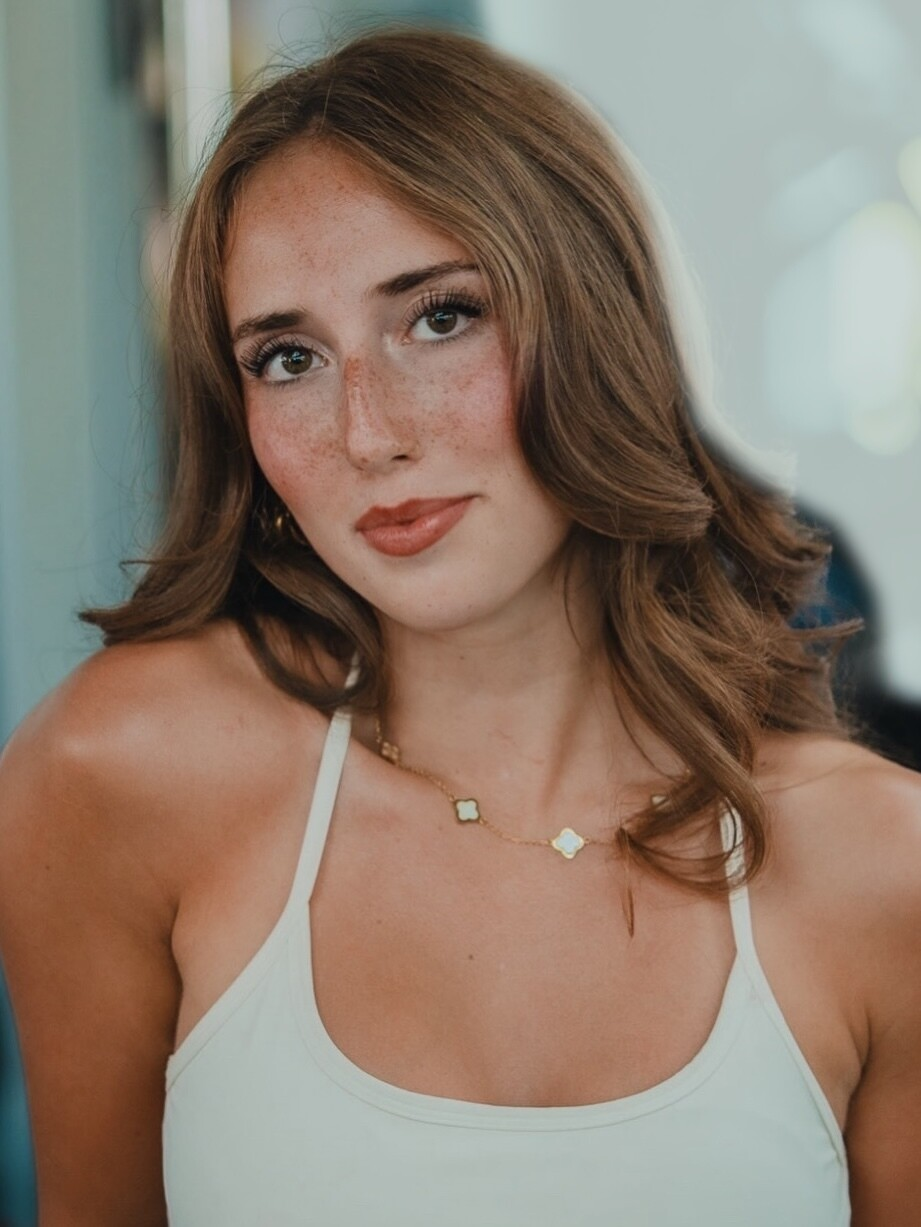
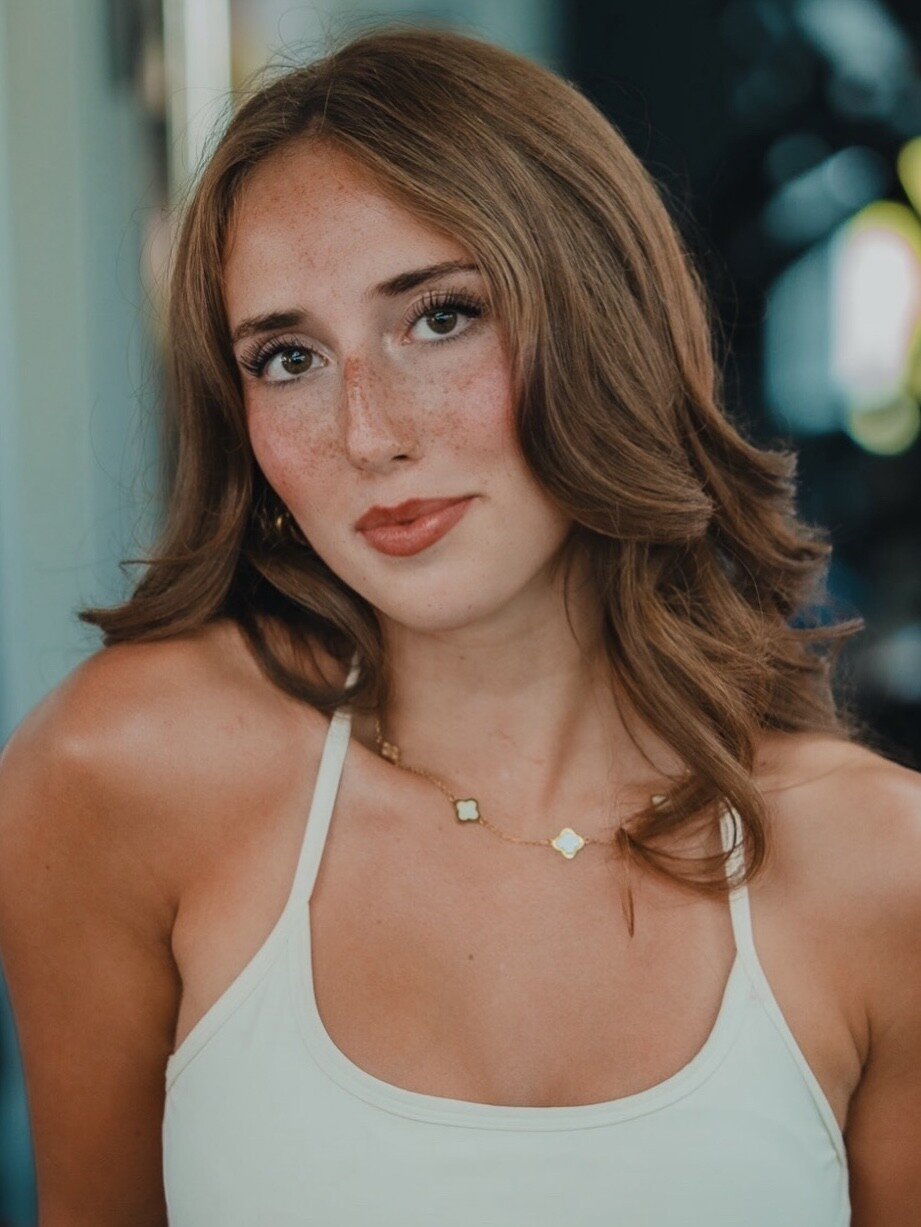
Revert hero edit, smaller eyebrows, bigger headings, review carousel, punctuation in headings

Changed region(s): [[0.5168, 0.0, 1.0, 0.5884]]

diff --git a/ugc-portfolio/index.html b/ugc-portfolio/index.html
@@ -55,12 +55,12 @@ a { color: inherit; }
 .wrap { max-width: 1160px; margin-inline: auto; }
 section { padding-block: 80px; }
 h1, h2, h3 { font-family: var(--font-display); font-weight: var(--hw); letter-spacing: -.015em; line-height: 1.02; margin: 0; text-wrap: balance; }
-h2 { font-size: clamp(2.1rem, 5vw, 3.4rem); }
+h2 { font-size: clamp(2.4rem, 5.4vw, 3.8rem); }
 .contact h2 { color: var(--on-navy); }
 .script { font-family: "Playfair Display", Georgia, serif; font-style: italic; font-weight: 600; letter-spacing: 0; color: var(--em); }
 .contact .script { color: #A5C3A0; }
 h3 { font-size: 1.45rem; font-weight: var(--hw); letter-spacing: -.01em; }
-.eyebrow { font-size: .78rem; letter-spacing: .16em; text-transform: uppercase; font-weight: 700; color: var(--accent); margin: 0 0 14px; }
+.eyebrow { font-size: .7rem; letter-spacing: .16em; text-transform: uppercase; font-weight: 700; color: var(--accent); margin: 0 0 14px; }
 .lead { color: var(--muted); max-width: 58ch; margin: 16px 0 0; }
 
 /* nav */
@@ -175,7 +175,7 @@ h3 { font-size: 1.45rem; font-weight: var(--hw); letter-spacing: -.01em; }
 
 /* brands */
 #brands { padding-block: 24px 0; }
-#brands h2 { font-size: clamp(1.5rem, 2.6vw, 2.1rem); }
+#brands h2 { font-size: clamp(2.2rem, 4.6vw, 3.4rem); }
 .brand-chips { display: flex; flex-wrap: wrap; gap: 12px; margin-top: 28px; }
 .brand-chips span { background: var(--surface); border: 1px solid var(--line); border-radius: 999px; padding: 14px 28px; font-family: var(--font-display); font-weight: var(--hw); font-size: 1.2rem; }
 .brand-chips .brand-plus { padding: 0 6px; border: 0; background: none; color: var(--accent); font-size: 1.05rem; font-weight: 700; cursor: default; user-select: none; }
@@ -186,12 +186,20 @@ h3 { font-size: 1.45rem; font-weight: var(--hw); letter-spacing: -.01em; }
 .brand-chips span:hover img { opacity: 1; }
 :root[data-theme="dark"] .brand-chips img { filter: invert(1); mix-blend-mode: screen; }
 .reviews { margin-top: 36px; }
-.reviews h3 { font-size: clamp(1.3rem, 2.4vw, 1.8rem); margin-bottom: 18px; }
-.review-grid { display: grid; grid-template-columns: repeat(auto-fit, minmax(min(100%, 250px), 1fr)); gap: 16px; }
-.review { margin: 0; background: var(--surface); border: 1px solid var(--line); border-radius: 22px; padding: 24px; display: flex; flex-direction: column; gap: 14px; }
-.rate-row { display: flex; justify-content: space-between; align-items: center; gap: 12px; font-size: .92rem; color: var(--muted); }
+.reviews h3 { font-size: clamp(1.8rem, 3.4vw, 2.6rem); margin-bottom: 20px; }
+.review-grid { display: flex; gap: 18px; overflow-x: auto; scroll-snap-type: x mandatory; scroll-behavior: smooth; scrollbar-width: none; -webkit-overflow-scrolling: touch; padding-bottom: 4px; }
+.review-grid::-webkit-scrollbar { display: none; }
+.review { flex: 0 0 min(100%, 760px); scroll-snap-align: start; margin: 0; background: var(--surface); border: 1px solid var(--line); border-radius: 26px; padding: clamp(24px, 3.4vw, 40px); display: flex; flex-direction: column; justify-content: center; gap: 16px; min-height: 230px; }
+.rev-nav { display: flex; align-items: center; gap: 12px; margin-top: 18px; }
+.rev-dots { display: flex; gap: 8px; }
+.rev-dots button { width: 10px; height: 10px; border-radius: 50%; border: 0; padding: 0; background: var(--line); cursor: pointer; transition: background .2s, width .2s; }
+.rev-dots button[aria-current="true"] { background: var(--accent); width: 26px; border-radius: 6px; }
+.rev-arrow { width: 40px; height: 40px; border-radius: 50%; border: 1px solid var(--line); background: var(--surface); color: var(--ink); font: inherit; font-size: 1.1rem; cursor: pointer; }
+.rev-arrow:hover { background: var(--soft); }
+.rate-row { display: flex; justify-content: flex-start; align-items: center; gap: 12px; min-width: 0; font-size: .92rem; color: var(--muted); }
 .stars { color: var(--accent); letter-spacing: 2px; white-space: nowrap; }
-.review p { margin: 0; font-size: 1.02rem; }
+.rate-row > span:first-child { min-width: 9.5em; }
+.review p { margin: 0; font-size: clamp(1.1rem, 2vw, 1.4rem); line-height: 1.45; }
 .review p.q::before { content: "\201C"; display: block; font-family: var(--font-display); font-size: 2.4rem; line-height: .6; color: var(--accent); margin-bottom: 8px; }
 .review cite { font-style: normal; font-weight: 700; font-size: .92rem; color: var(--ink); margin-top: auto; }
 .brand-more { color: var(--muted); margin: 16px 0 0; }
@@ -330,6 +338,7 @@ footer nav { display: flex; gap: 20px; flex-wrap: wrap; }
     <div class="reviews" id="reviews" hidden>
       <h3 data-i18n="br_rev">Das sagen Marken</h3>
       <div class="review-grid" id="reviewGrid"></div>
+      <div class="rev-nav"><button class="rev-arrow" type="button" id="revPrev" aria-label="Zurück">←</button><div class="rev-dots" id="revDots"></div><button class="rev-arrow" type="button" id="revNext" aria-label="Weiter">→</button></div>
     </div>
   </section>
 
@@ -354,7 +363,7 @@ footer nav { display: flex; gap: 20px; flex-wrap: wrap; }
   <section class="why" id="why">
     <div>
       <p class="eyebrow" data-i18n="why_eyebrow">Warum ich</p>
-      <h2 data-i18n-html="why_title">Menschen vertrauen <span class="script">mir</span></h2>
+      <h2 data-i18n-html="why_title">Menschen vertrauen <span class="script">mir.</span></h2>
       <p class="txt" data-i18n="why_p">UGC funktioniert, weil Menschen Menschen vertrauen und keiner polierten Werbung. Ich erstelle authentischen, ästhetischen Content, der deine Marke emotional mit deiner Zielgruppe verbindet.</p>
       <ul class="points">
         <li><i>1</i><div><b data-i18n="w1t">Natürlich vor der Kamera</b><span data-i18n="w1d">Über zwei Jahre Erfahrung, Videos wirken mühelos statt gestellt.</span></div></li>
@@ -455,7 +464,7 @@ footer nav { display: flex; gap: 20px; flex-wrap: wrap; }
     <section class="contact-grid">
       <div class="contact-info">
         <p class="eyebrow" data-i18n="ct_eyebrow">Kontakt</p>
-        <h2 data-i18n-html="ct_title">Lass uns <span class="script">zusammenarbeiten</span></h2>
+        <h2 data-i18n-html="ct_title">Lass uns <span class="script">zusammenarbeiten!</span></h2>
         <p style="margin-top:18px" data-i18n="ct_p">Du möchtest deine Marke mit authentischem Content zum Leben bringen? Schreib mir direkt oder fülle das Kurzbriefing aus.</p>
         <div class="mail-row">
           <span class="mail" id="mailText">hello@example.com</span>
@@ -580,7 +589,7 @@ const T = {
     p1: "3 Videos mit je 2 Hooks (6 Hooks)", p2: "Skript und Konzept inklusive", p3: "Paid-Ads-Nutzungsrechte für 3 Monate", p4: "1 Korrekturrunde", p5: "Lieferung in 7 Tagen",
     on_request: "Preis auf Anfrage", pkg_m: "Langfristig", pkg_m_tag: "Monatlich", who: "Selina · UGC & Content Creator · Deutschland", m1: "Bis zu 10 Videos pro Monat", m2: "Contentplanung und Strategie", m3: "Feste Ansprechpartnerin", m4: "Priorisierte Lieferung", m5: "Testen und live optimieren", m6: "Rabatt auf Einzelpreise",
     cu_t: "Du brauchst etwas anderes?", cu_p: "Anderes Format, mehr Videos oder besondere Rechte? Beschreib kurz dein Projekt und ich erstelle dir ein individuelles Angebot.", cu_btn: "Individuelles Angebot anfragen",
-    why_eyebrow: "Warum ich", why_title: "Menschen vertrauen <span class=\"script\">mir</span>",
+    why_eyebrow: "Warum ich", why_title: "Menschen vertrauen <span class=\"script\">mir.</span>",
     why_p: "UGC funktioniert, weil Menschen Menschen vertrauen und keiner polierten Werbung. Ich erstelle authentischen, ästhetischen Content, der deine Marke emotional mit deiner Zielgruppe verbindet.",
     w1t: "Natürlich vor der Kamera", w1d: "Über zwei Jahre Erfahrung, Videos wirken mühelos statt gestellt.",
     w2t: "Zuverlässig", w2d: "Klare Absprachen, pünktliche Lieferung, saubere Dateien.",
@@ -596,7 +605,7 @@ const T = {
     q2: "Welche Nutzungsrechte sind enthalten?", a2: "Single: organische Nutzung. Ad Pack: Paid Ads für 3 Monate, eine Verlängerung auf 6 oder 12 Monate ist möglich.",
     q3: "Kann ich Rohmaterial bekommen?", a3: "Ja, auf Anfrage gegen Aufpreis.",
     q4: "Arbeitest du auch auf Englisch?", a4: "Ja, ich drehe Videos auf Deutsch und auf Englisch.",
-    ct_eyebrow: "Kontakt", ct_title: "Lass uns <span class=\"script\">zusammenarbeiten</span>",
+    ct_eyebrow: "Kontakt", ct_title: "Lass uns <span class=\"script\">zusammenarbeiten!</span>",
     ct_p: "Du möchtest deine Marke mit authentischem Content zum Leben bringen? Schreib mir direkt oder fülle das Kurzbriefing aus.",
     copy: "Kopieren", copied: "Kopiert", reply: "Antwort in der Regel innerhalb von 24 Stunden.",
     fm_t: "Individuelles Angebot anfragen", fm_s: "Dauert eine Minute. Das Briefing öffnet deine E-Mail-App, alternativ kannst du den Text kopieren.",
@@ -622,7 +631,7 @@ const T = {
     p1: "3 videos with 2 hooks each (6 hooks)", p2: "Script and concept included", p3: "Paid ads usage rights for 3 months", p4: "1 round of revisions", p5: "Delivery in 7 days",
     on_request: "Price on request", pkg_m: "Long-term", pkg_m_tag: "Monthly", who: "Selina · UGC & content creator · Germany", m1: "Up to 10 videos per month", m2: "Content planning and strategy", m3: "A dedicated contact", m4: "Priority delivery", m5: "Test and optimise live", m6: "Discount on single prices",
     cu_t: "Need something different?", cu_p: "Another format, more videos or special rights? Briefly describe your project and I will put together a custom offer.", cu_btn: "Request a custom offer",
-    why_eyebrow: "Why me", why_title: "People trust <span class=\"script\">me</span>",
+    why_eyebrow: "Why me", why_title: "People trust <span class=\"script\">me.</span>",
     why_p: "UGC works because people trust people, not polished ads. I create authentic and aesthetic content that helps brands connect emotionally with their audience.",
     w1t: "Natural on camera", w1d: "Over two years of experience, videos feel effortless, not staged.",
     w2t: "Reliable", w2d: "Clear agreements, on-time delivery, clean files.",
@@ -638,7 +647,7 @@ const T = {
     q2: "Which usage rights are included?", a2: "Single: organic use. Ad Pack: paid ads for 3 months, extension to 6 or 12 months is possible.",
     q3: "Can I get the raw footage?", a3: "Yes, on request for an additional fee.",
     q4: "Do you also work in English?", a4: "Yes, I film videos in German and in English.",
-    ct_eyebrow: "Contact", ct_title: "Let's work <span class=\"script\">together</span>",
+    ct_eyebrow: "Contact", ct_title: "Let's work <span class=\"script\">together!</span>",
     ct_p: "Ready to bring your brand to life through authentic content? Write to me directly or fill in the short brief.",
     copy: "Copy", copied: "Copied", reply: "Usually replies within 24 hours.",
     fm_t: "Request a custom offer", fm_s: "Takes a minute. The brief opens your email app, or you can copy the text.",
@@ -799,6 +808,45 @@ function renderReviews() {
     const c = document.createElement("cite"); c.textContent = [r.name, r.brand].filter(Boolean).join(" · "); f.append(c);
     g.append(f);
   });
+  setupCarousel();
+}
+let revTimer = null, revInit = false, cur = 0, revApi = null;
+function setupCarousel() {
+  const g = $("#reviewGrid"), cards = [...g.children], dots = $("#revDots");
+  dots.innerHTML = "";
+  cards.forEach((c, i) => {
+    const d = document.createElement("button");
+    d.type = "button"; d.setAttribute("aria-label", (i + 1) + "/" + cards.length);
+    d.addEventListener("click", () => { go(i); restart(); });
+    dots.append(d);
+  });
+  const step = () => (cards[0] ? cards[0].offsetWidth + 18 : 1);
+  const idx = () => {
+    const max = g.scrollWidth - g.clientWidth;
+    if (max > 0 && g.scrollLeft >= max - 4) return cards.length - 1;
+    return Math.max(0, Math.min(cards.length - 1, Math.round(g.scrollLeft / step())));
+  };
+  const mark = () => { const i = idx(); [...dots.children].forEach((d, k) => d.setAttribute("aria-current", String(k === i))); };
+  function go(i) { const n = (i + cards.length) % cards.length; cur = n; g.scrollTo({ left: n * step(), behavior: "smooth" }); }
+  const stop = () => { clearInterval(revTimer); revTimer = null; };
+  function restart() {
+    stop();
+    if (cards.length < 2 || matchMedia("(prefers-reduced-motion: reduce)").matches) return;
+    revTimer = setInterval(() => go(cur + 1), 6500);
+  }
+  g.onscroll = () => { mark(); cur = idx(); };
+  if (!revInit) {
+    revInit = true;
+    $("#revPrev").addEventListener("click", () => { revApi.go(cur - 1); revApi.restart(); });
+    $("#revNext").addEventListener("click", () => { revApi.go(cur + 1); revApi.restart(); });
+    const box = $("#reviews");
+    ["mouseenter", "focusin", "touchstart"].forEach(ev => box.addEventListener(ev, () => revApi.stop(), { passive: true }));
+    ["mouseleave", "focusout"].forEach(ev => box.addEventListener(ev, () => revApi.restart()));
+  }
+  revApi = { go, stop, restart };
+  cur = 0;
+  mark(); restart();
+  $(".rev-nav").hidden = cards.length < 2;
 }
 function renderGallery() {
   const g = $("#gallery-grid");

diff --git a/ugc-portfolio/page.html b/ugc-portfolio/page.html
@@ -48,12 +48,12 @@ a { color: inherit; }
 .wrap { max-width: 1160px; margin-inline: auto; }
 section { padding-block: 80px; }
 h1, h2, h3 { font-family: var(--font-display); font-weight: var(--hw); letter-spacing: -.015em; line-height: 1.02; margin: 0; text-wrap: balance; }
-h2 { font-size: clamp(2.1rem, 5vw, 3.4rem); }
+h2 { font-size: clamp(2.4rem, 5.4vw, 3.8rem); }
 .contact h2 { color: var(--on-navy); }
 .script { font-family: "Playfair Display", Georgia, serif; font-style: italic; font-weight: 600; letter-spacing: 0; color: var(--em); }
 .contact .script { color: #A5C3A0; }
 h3 { font-size: 1.45rem; font-weight: var(--hw); letter-spacing: -.01em; }
-.eyebrow { font-size: .78rem; letter-spacing: .16em; text-transform: uppercase; font-weight: 700; color: var(--accent); margin: 0 0 14px; }
+.eyebrow { font-size: .7rem; letter-spacing: .16em; text-transform: uppercase; font-weight: 700; color: var(--accent); margin: 0 0 14px; }
 .lead { color: var(--muted); max-width: 58ch; margin: 16px 0 0; }
 
 /* nav */
@@ -168,7 +168,7 @@ h3 { font-size: 1.45rem; font-weight: var(--hw); letter-spacing: -.01em; }
 
 /* brands */
 #brands { padding-block: 24px 0; }
-#brands h2 { font-size: clamp(1.5rem, 2.6vw, 2.1rem); }
+#brands h2 { font-size: clamp(2.2rem, 4.6vw, 3.4rem); }
 .brand-chips { display: flex; flex-wrap: wrap; gap: 12px; margin-top: 28px; }
 .brand-chips span { background: var(--surface); border: 1px solid var(--line); border-radius: 999px; padding: 14px 28px; font-family: var(--font-display); font-weight: var(--hw); font-size: 1.2rem; }
 .brand-chips .brand-plus { padding: 0 6px; border: 0; background: none; color: var(--accent); font-size: 1.05rem; font-weight: 700; cursor: default; user-select: none; }
@@ -179,12 +179,20 @@ h3 { font-size: 1.45rem; font-weight: var(--hw); letter-spacing: -.01em; }
 .brand-chips span:hover img { opacity: 1; }
 :root[data-theme="dark"] .brand-chips img { filter: invert(1); mix-blend-mode: screen; }
 .reviews { margin-top: 36px; }
-.reviews h3 { font-size: clamp(1.3rem, 2.4vw, 1.8rem); margin-bottom: 18px; }
-.review-grid { display: grid; grid-template-columns: repeat(auto-fit, minmax(min(100%, 250px), 1fr)); gap: 16px; }
-.review { margin: 0; background: var(--surface); border: 1px solid var(--line); border-radius: 22px; padding: 24px; display: flex; flex-direction: column; gap: 14px; }
-.rate-row { display: flex; justify-content: space-between; align-items: center; gap: 12px; font-size: .92rem; color: var(--muted); }
+.reviews h3 { font-size: clamp(1.8rem, 3.4vw, 2.6rem); margin-bottom: 20px; }
+.review-grid { display: flex; gap: 18px; overflow-x: auto; scroll-snap-type: x mandatory; scroll-behavior: smooth; scrollbar-width: none; -webkit-overflow-scrolling: touch; padding-bottom: 4px; }
+.review-grid::-webkit-scrollbar { display: none; }
+.review { flex: 0 0 min(100%, 760px); scroll-snap-align: start; margin: 0; background: var(--surface); border: 1px solid var(--line); border-radius: 26px; padding: clamp(24px, 3.4vw, 40px); display: flex; flex-direction: column; justify-content: center; gap: 16px; min-height: 230px; }
+.rev-nav { display: flex; align-items: center; gap: 12px; margin-top: 18px; }
+.rev-dots { display: flex; gap: 8px; }
+.rev-dots button { width: 10px; height: 10px; border-radius: 50%; border: 0; padding: 0; background: var(--line); cursor: pointer; transition: background .2s, width .2s; }
+.rev-dots button[aria-current="true"] { background: var(--accent); width: 26px; border-radius: 6px; }
+.rev-arrow { width: 40px; height: 40px; border-radius: 50%; border: 1px solid var(--line); background: var(--surface); color: var(--ink); font: inherit; font-size: 1.1rem; cursor: pointer; }
+.rev-arrow:hover { background: var(--soft); }
+.rate-row { display: flex; justify-content: flex-start; align-items: center; gap: 12px; min-width: 0; font-size: .92rem; color: var(--muted); }
 .stars { color: var(--accent); letter-spacing: 2px; white-space: nowrap; }
-.review p { margin: 0; font-size: 1.02rem; }
+.rate-row > span:first-child { min-width: 9.5em; }
+.review p { margin: 0; font-size: clamp(1.1rem, 2vw, 1.4rem); line-height: 1.45; }
 .review p.q::before { content: "\201C"; display: block; font-family: var(--font-display); font-size: 2.4rem; line-height: .6; color: var(--accent); margin-bottom: 8px; }
 .review cite { font-style: normal; font-weight: 700; font-size: .92rem; color: var(--ink); margin-top: auto; }
 .brand-more { color: var(--muted); margin: 16px 0 0; }
@@ -323,6 +331,7 @@ footer nav { display: flex; gap: 20px; flex-wrap: wrap; }
     <div class="reviews" id="reviews" hidden>
       <h3 data-i18n="br_rev">Das sagen Marken</h3>
       <div class="review-grid" id="reviewGrid"></div>
+      <div class="rev-nav"><button class="rev-arrow" type="button" id="revPrev" aria-label="Zurück">←</button><div class="rev-dots" id="revDots"></div><button class="rev-arrow" type="button" id="revNext" aria-label="Weiter">→</button></div>
     </div>
   </section>
 
@@ -347,7 +356,7 @@ footer nav { display: flex; gap: 20px; flex-wrap: wrap; }
   <section class="why" id="why">
     <div>
       <p class="eyebrow" data-i18n="why_eyebrow">Warum ich</p>
-      <h2 data-i18n-html="why_title">Menschen vertrauen <span class="script">mir</span></h2>
+      <h2 data-i18n-html="why_title">Menschen vertrauen <span class="script">mir.</span></h2>
       <p class="txt" data-i18n="why_p">UGC funktioniert, weil Menschen Menschen vertrauen und keiner polierten Werbung. Ich erstelle authentischen, ästhetischen Content, der deine Marke emotional mit deiner Zielgruppe verbindet.</p>
       <ul class="points">
         <li><i>1</i><div><b data-i18n="w1t">Natürlich vor der Kamera</b><span data-i18n="w1d">Über zwei Jahre Erfahrung, Videos wirken mühelos statt gestellt.</span></div></li>
@@ -448,7 +457,7 @@ footer nav { display: flex; gap: 20px; flex-wrap: wrap; }
     <section class="contact-grid">
       <div class="contact-info">
         <p class="eyebrow" data-i18n="ct_eyebrow">Kontakt</p>
-        <h2 data-i18n-html="ct_title">Lass uns <span class="script">zusammenarbeiten</span></h2>
+        <h2 data-i18n-html="ct_title">Lass uns <span class="script">zusammenarbeiten!</span></h2>
         <p style="margin-top:18px" data-i18n="ct_p">Du möchtest deine Marke mit authentischem Content zum Leben bringen? Schreib mir direkt oder fülle das Kurzbriefing aus.</p>
         <div class="mail-row">
           <span class="mail" id="mailText">hello@example.com</span>
@@ -573,7 +582,7 @@ const T = {
     p1: "3 Videos mit je 2 Hooks (6 Hooks)", p2: "Skript und Konzept inklusive", p3: "Paid-Ads-Nutzungsrechte für 3 Monate", p4: "1 Korrekturrunde", p5: "Lieferung in 7 Tagen",
     on_request: "Preis auf Anfrage", pkg_m: "Langfristig", pkg_m_tag: "Monatlich", who: "Selina · UGC & Content Creator · Deutschland", m1: "Bis zu 10 Videos pro Monat", m2: "Contentplanung und Strategie", m3: "Feste Ansprechpartnerin", m4: "Priorisierte Lieferung", m5: "Testen und live optimieren", m6: "Rabatt auf Einzelpreise",
     cu_t: "Du brauchst etwas anderes?", cu_p: "Anderes Format, mehr Videos oder besondere Rechte? Beschreib kurz dein Projekt und ich erstelle dir ein individuelles Angebot.", cu_btn: "Individuelles Angebot anfragen",
-    why_eyebrow: "Warum ich", why_title: "Menschen vertrauen <span class=\"script\">mir</span>",
+    why_eyebrow: "Warum ich", why_title: "Menschen vertrauen <span class=\"script\">mir.</span>",
     why_p: "UGC funktioniert, weil Menschen Menschen vertrauen und keiner polierten Werbung. Ich erstelle authentischen, ästhetischen Content, der deine Marke emotional mit deiner Zielgruppe verbindet.",
     w1t: "Natürlich vor der Kamera", w1d: "Über zwei Jahre Erfahrung, Videos wirken mühelos statt gestellt.",
     w2t: "Zuverlässig", w2d: "Klare Absprachen, pünktliche Lieferung, saubere Dateien.",
@@ -589,7 +598,7 @@ const T = {
     q2: "Welche Nutzungsrechte sind enthalten?", a2: "Single: organische Nutzung. Ad Pack: Paid Ads für 3 Monate, eine Verlängerung auf 6 oder 12 Monate ist möglich.",
     q3: "Kann ich Rohmaterial bekommen?", a3: "Ja, auf Anfrage gegen Aufpreis.",
     q4: "Arbeitest du auch auf Englisch?", a4: "Ja, ich drehe Videos auf Deutsch und auf Englisch.",
-    ct_eyebrow: "Kontakt", ct_title: "Lass uns <span class=\"script\">zusammenarbeiten</span>",
+    ct_eyebrow: "Kontakt", ct_title: "Lass uns <span class=\"script\">zusammenarbeiten!</span>",
     ct_p: "Du möchtest deine Marke mit authentischem Content zum Leben bringen? Schreib mir direkt oder fülle das Kurzbriefing aus.",
     copy: "Kopieren", copied: "Kopiert", reply: "Antwort in der Regel innerhalb von 24 Stunden.",
     fm_t: "Individuelles Angebot anfragen", fm_s: "Dauert eine Minute. Das Briefing öffnet deine E-Mail-App, alternativ kannst du den Text kopieren.",
@@ -615,7 +624,7 @@ const T = {
     p1: "3 videos with 2 hooks each (6 hooks)", p2: "Script and concept included", p3: "Paid ads usage rights for 3 months", p4: "1 round of revisions", p5: "Delivery in 7 days",
     on_request: "Price on request", pkg_m: "Long-term", pkg_m_tag: "Monthly", who: "Selina · UGC & content creator · Germany", m1: "Up to 10 videos per month", m2: "Content planning and strategy", m3: "A dedicated contact", m4: "Priority delivery", m5: "Test and optimise live", m6: "Discount on single prices",
     cu_t: "Need something different?", cu_p: "Another format, more videos or special rights? Briefly describe your project and I will put together a custom offer.", cu_btn: "Request a custom offer",
-    why_eyebrow: "Why me", why_title: "People trust <span class=\"script\">me</span>",
+    why_eyebrow: "Why me", why_title: "People trust <span class=\"script\">me.</span>",
     why_p: "UGC works because people trust people, not polished ads. I create authentic and aesthetic content that helps brands connect emotionally with their audience.",
     w1t: "Natural on camera", w1d: "Over two years of experience, videos feel effortless, not staged.",
     w2t: "Reliable", w2d: "Clear agreements, on-time delivery, clean files.",
@@ -631,7 +640,7 @@ const T = {
     q2: "Which usage rights are included?", a2: "Single: organic use. Ad Pack: paid ads for 3 months, extension to 6 or 12 months is possible.",
     q3: "Can I get the raw footage?", a3: "Yes, on request for an additional fee.",
     q4: "Do you also work in English?", a4: "Yes, I film videos in German and in English.",
-    ct_eyebrow: "Contact", ct_title: "Let's work <span class=\"script\">together</span>",
+    ct_eyebrow: "Contact", ct_title: "Let's work <span class=\"script\">together!</span>",
     ct_p: "Ready to bring your brand to life through authentic content? Write to me directly or fill in the short brief.",
     copy: "Copy", copied: "Copied", reply: "Usually replies within 24 hours.",
     fm_t: "Request a custom offer", fm_s: "Takes a minute. The brief opens your email app, or you can copy the text.",
@@ -792,6 +801,45 @@ function renderReviews() {
     const c = document.createElement("cite"); c.textContent = [r.name, r.brand].filter(Boolean).join(" · "); f.append(c);
     g.append(f);
   });
+  setupCarousel();
+}
+let revTimer = null, revInit = false, cur = 0, revApi = null;
+function setupCarousel() {
+  const g = $("#reviewGrid"), cards = [...g.children], dots = $("#revDots");
+  dots.innerHTML = "";
+  cards.forEach((c, i) => {
+    const d = document.createElement("button");
+    d.type = "button"; d.setAttribute("aria-label", (i + 1) + "/" + cards.length);
+    d.addEventListener("click", () => { go(i); restart(); });
+    dots.append(d);
+  });
+  const step = () => (cards[0] ? cards[0].offsetWidth + 18 : 1);
+  const idx = () => {
+    const max = g.scrollWidth - g.clientWidth;
+    if (max > 0 && g.scrollLeft >= max - 4) return cards.length - 1;
+    return Math.max(0, Math.min(cards.length - 1, Math.round(g.scrollLeft / step())));
+  };
+  const mark = () => { const i = idx(); [...dots.children].forEach((d, k) => d.setAttribute("aria-current", String(k === i))); };
+  function go(i) { const n = (i + cards.length) % cards.length; cur = n; g.scrollTo({ left: n * step(), behavior: "smooth" }); }
+  const stop = () => { clearInterval(revTimer); revTimer = null; };
+  function restart() {
+    stop();
+    if (cards.length < 2 || matchMedia("(prefers-reduced-motion: reduce)").matches) return;
+    revTimer = setInterval(() => go(cur + 1), 6500);
+  }
+  g.onscroll = () => { mark(); cur = idx(); };
+  if (!revInit) {
+    revInit = true;
+    $("#revPrev").addEventListener("click", () => { revApi.go(cur - 1); revApi.restart(); });
+    $("#revNext").addEventListener("click", () => { revApi.go(cur + 1); revApi.restart(); });
+    const box = $("#reviews");
+    ["mouseenter", "focusin", "touchstart"].forEach(ev => box.addEventListener(ev, () => revApi.stop(), { passive: true }));
+    ["mouseleave", "focusout"].forEach(ev => box.addEventListener(ev, () => revApi.restart()));
+  }
+  revApi = { go, stop, restart };
+  cur = 0;
+  mark(); restart();
+  $(".rev-nav").hidden = cards.length < 2;
 }
 function renderGallery() {
   const g = $("#gallery-grid");
